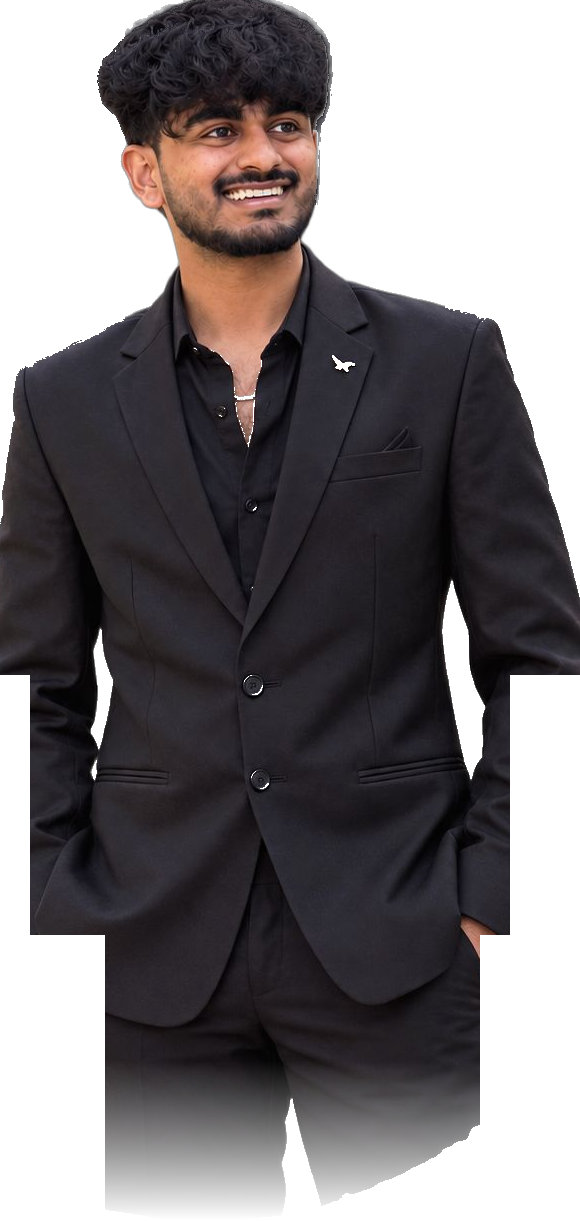
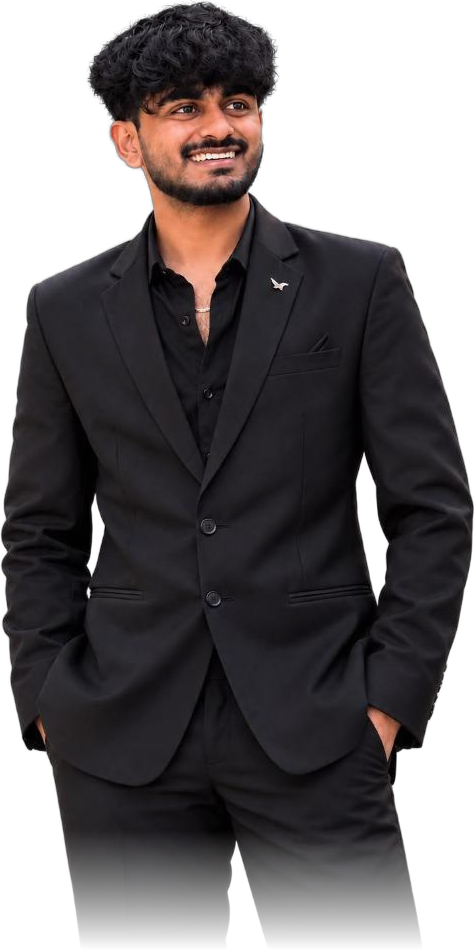
fix(about): integrate user studio white photo cutout with zero fringe and enhance mobile layout

diff --git a/src/components/About.module.css b/src/components/About.module.css
@@ -626,11 +626,22 @@
 
   .spreadMainGrid {
     grid-template-columns: 1fr;
-    gap: 36px;
+    gap: 32px;
   }
 
   .leftCol {
     align-items: center;
+    text-align: center;
+  }
+
+  .buildWord {
+    font-size: clamp(3.2rem, 13vw, 4.4rem);
+    justify-content: center;
+  }
+
+  .techBusinessMotto {
+    font-size: 0.68rem;
+    letter-spacing: 1.8px;
     text-align: center;
   }
 
@@ -640,6 +651,7 @@
 
   .mantraItem {
     text-align: left;
+    font-size: 0.95rem;
   }
 
   .locationWrap {
@@ -647,18 +659,55 @@
   }
 
   .centerCol {
-    min-height: 480px;
+    min-height: 460px;
+    width: 100%;
+    margin: 0 auto;
   }
 
   .portraitWrapper {
-    max-width: 340px;
-    height: 480px;
+    max-width: 320px;
+    height: 460px;
+    margin: 0 auto;
+    mask-image: linear-gradient(to bottom, black 82%, transparent 100%);
+    -webkit-mask-image: linear-gradient(to bottom, black 82%, transparent 100%);
   }
 
   .rightCol {
     grid-column: span 1;
     align-items: center;
     text-align: center;
+    margin-top: 10px;
+  }
+
+  .architecturalHeadline {
+    align-items: center;
+    text-align: center;
+    font-size: clamp(1.65rem, 6.5vw, 2.2rem);
+  }
+
+  .verticalRibbonWrap {
+    margin: 18px 0;
+    justify-content: center;
+  }
+
+  .verticalWords {
+    flex-direction: row;
+    gap: 12px;
+    text-align: center;
+    flex-wrap: wrap;
+    justify-content: center;
+    font-size: 0.68rem;
+    letter-spacing: 2px;
+  }
+
+  .ribbonDivider {
+    display: none;
+  }
+
+  .bottomMotto {
+    justify-content: center;
+    font-size: 0.76rem;
+    letter-spacing: 2px;
   }
 
   .narrativeSection {
